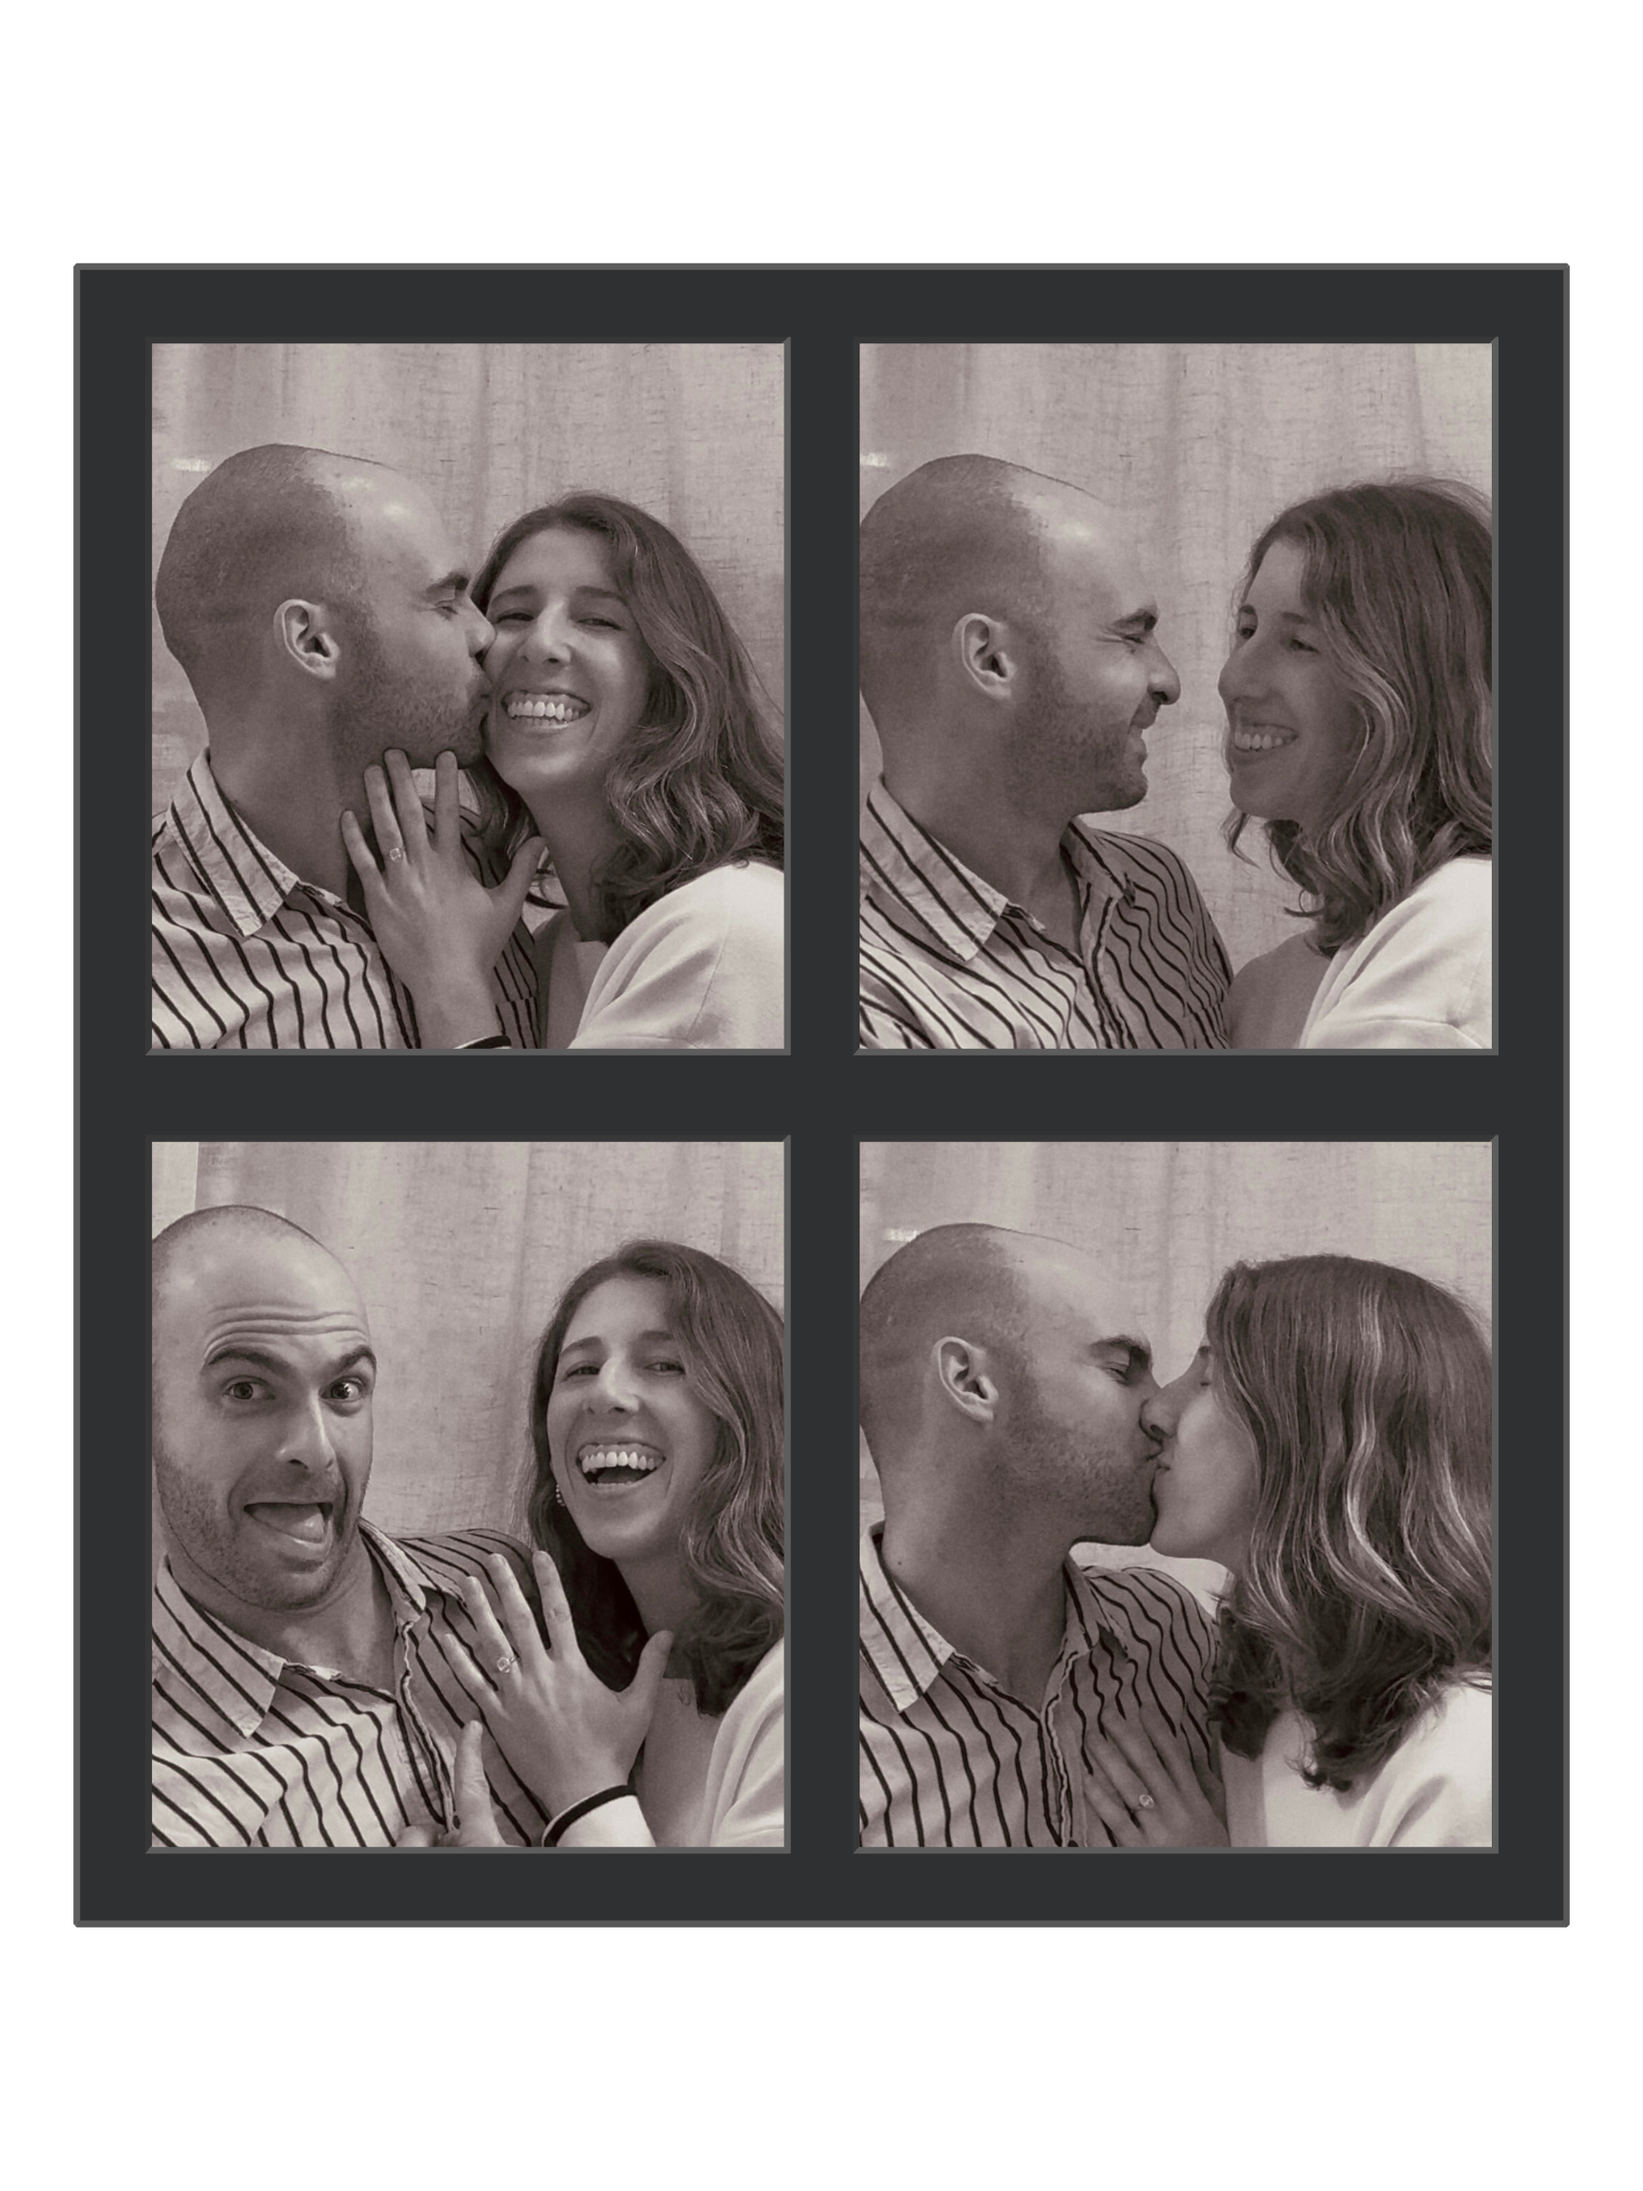
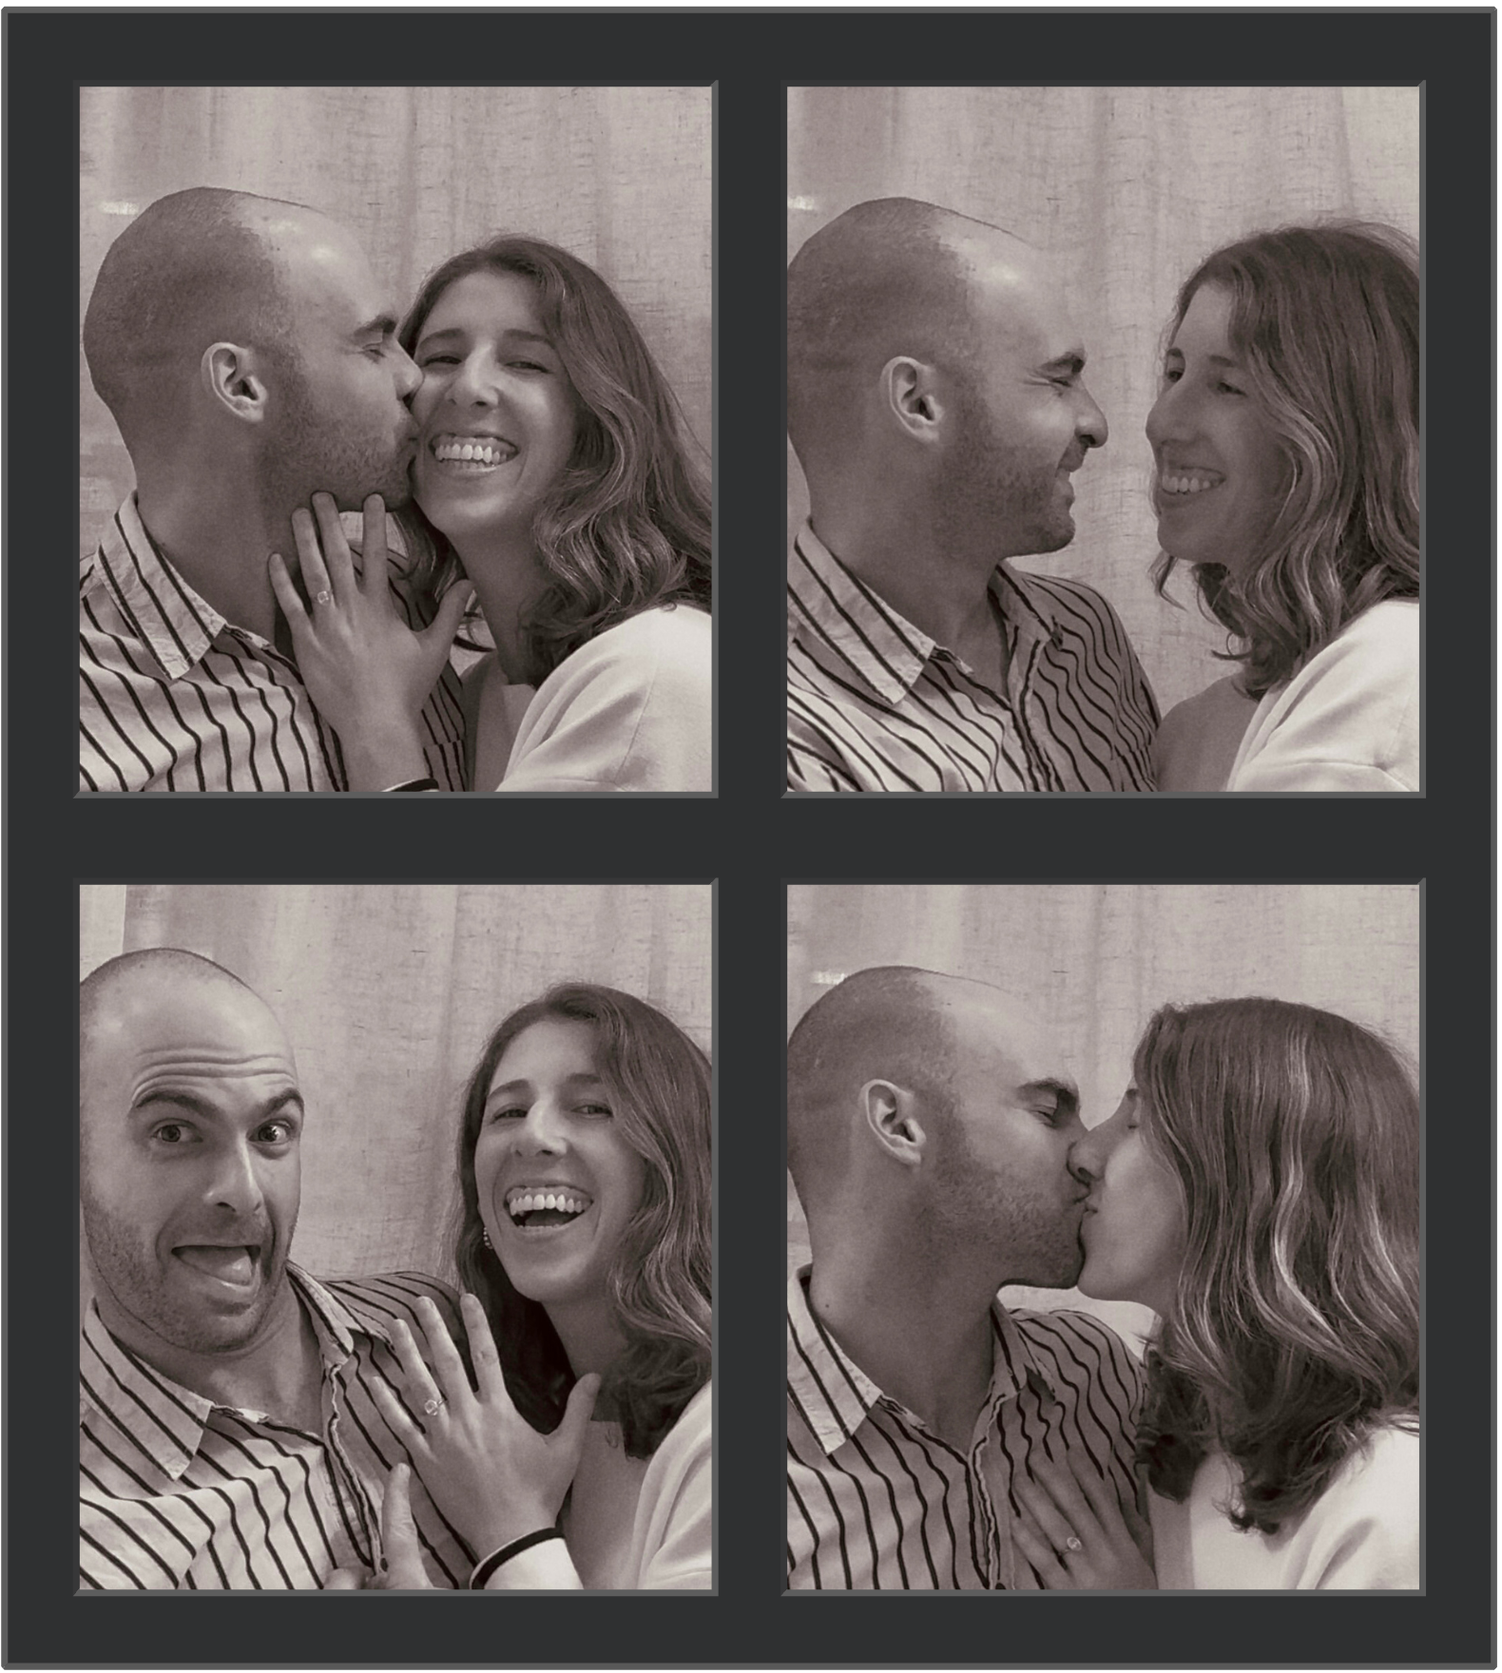
Change photoboot photo

diff --git a/components/HeroSection.tsx b/components/HeroSection.tsx
@@ -21,30 +21,9 @@ export const HeroSection: React.FC = () => {
         initial={{ scale: 0.8, opacity: 0 }}
         animate={{ scale: 1, opacity: 1 }}
         transition={{ duration: 1.2, delay: 0.5 }}
-        className="relative z-0 border-8 border-[#5D4037] bg-[#5D4037] shadow-2xl max-w-60 lg:max-w-70 w-full aspect-square rounded-lg"
+        className="relative z-0 max-w-80 lg:max-w-100 w-full"
       >
-        <div className="grid grid-cols-2 grid-rows-2 w-full h-full gap-3 bg-[#5D4037] p-1">
-          <img 
-            src="/images/sm/1.jpg"
-            alt="Mackenzie and Sam 1" 
-            className="w-full h-full object-cover grayscale sepia-[.5] hover:sepia-0 transition-all duration-500"
-          />
-          <img 
-            src="/images/sm/2.jpg" 
-            alt="Mackenzie and Sam 2" 
-            className="w-full h-full object-cover grayscale sepia-[.5] hover:sepia-0 transition-all duration-500"
-          />
-          <img 
-            src="/images/sm/3.jpg" 
-            alt="Mackenzie and Sam 3" 
-            className="w-full h-full object-cover grayscale sepia-[.5] hover:sepia-0 transition-all duration-500"
-          />
-          <img 
-            src="/images/sm/4.jpg" 
-            alt="Mackenzie and Sam 4" 
-            className="w-full h-full object-cover grayscale sepia-[.5] hover:sepia-0 transition-all duration-500"
-          />
-        </div>
+        <img src="images/home/photobooth-sepia.png" alt="Photobooth" className='w-full shadow-xl rounded-2xl' />
       </motion.div>
 
       {/* Bottom Right Text */}
@@ -59,8 +38,8 @@ export const HeroSection: React.FC = () => {
         </h2>
       </motion.div>
 
-       {/* Bottom Center Text */}
-       <motion.div
+      {/* Bottom Center Text */}
+      <motion.div
         initial={{ y: 50, opacity: 0 }}
         animate={{ y: 0, opacity: 1 }}
         transition={{ duration: 1, ease: "easeOut", delay: 1.5 }}
